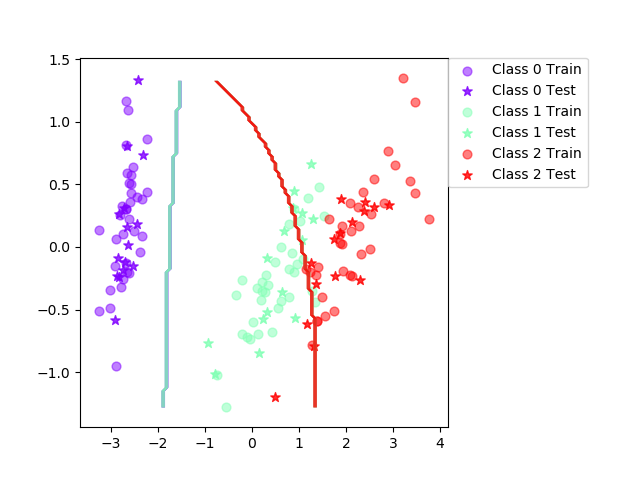
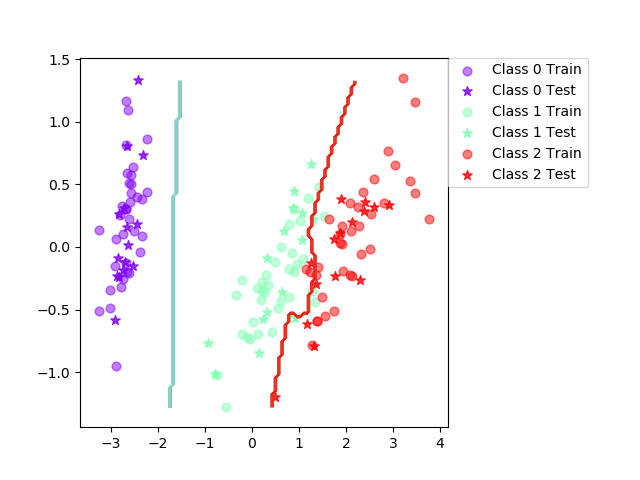
Fixed assignment 5

diff --git a/lab3/stef.py b/lab3/stef.py
@@ -1,21 +1,3 @@
-#!/usr/bin/python
-# coding: utf-8
-
-# # Lab 3: Bayes Classifier and Boosting
-
-# ## Jupyter notebooks
-# 
-# In this lab, you can use Jupyter <https://jupyter.org/> to get a nice layout of your code and plots in one document. However, you may also use Python as usual, without Jupyter.
-# 
-# If you have Python and pip, you can install Jupyter with `sudo pip install jupyter`. Otherwise you can follow the instruction on <http://jupyter.readthedocs.org/en/latest/install.html>.
-# 
-# And that is everything you need! Now use a terminal to go into the folder with the provided lab files. Then run `jupyter notebook` to start a session in that folder. Click `lab3.ipynb` in the browser window that appeared to start this very notebook. You should click on the cells in order and either press `ctrl+enter` or `run cell` in the toolbar above to evaluate all the expressions.
-
-# ## Import the libraries
-# 
-# In Jupyter, select the cell below and press `ctrl + enter` to import the needed libraries.
-# Check out `labfuns.py` if you are interested in the details.
-
 import numpy as np
 from scipy import misc
 from imp import reload
@@ -28,6 +10,7 @@ import random
 # The lab descriptions state what each function should do.
 
 
+# NOTE: you do not need to handle the W argument for this part!
 # in: labels - N vector of class labels
 # out: prior - C x 1 vector of class priors
 def computePrior(labels, W=None):
@@ -41,15 +24,13 @@ def computePrior(labels, W=None):
 
     prior = np.zeros((Nclasses,1))
 
-
-    for jdx,c in enumerate(classes):
-        idx = np.where(labels==c)[0]
-        prior[jdx] = np.sum(W[idx]) /  np.sum(W[:])
+    for jdx, c in enumerate(classes):
+        idx = np.where(labels == c)[0]
+        prior[jdx] = np.sum(W[idx]) / np.sum(W[:])
 
     return prior
 
-
-
+# NOTE: you do not need to handle the W argument for this part!
 # in:      X - N x d matrix of N data points
 #     labels - N vector of class labels
 # out:    mu - C x d matrix of class means (mu[i] - class i mean)
@@ -57,28 +38,27 @@ def computePrior(labels, W=None):
 def mlParams(X, labels, W=None):
     assert(X.shape[0]==labels.shape[0])
     Npts,Ndims = np.shape(X)
-    classes = np.unique(labels)
+    classes = np.unique(labels) # Returns the sorted unique elements of an array
     Nclasses = np.size(classes)
-    
+
     if W is None:
         W = np.ones((Npts,1))/float(Npts)
 
     mu = np.zeros((Nclasses,Ndims))
     sigma = np.zeros((Nclasses,Ndims,Ndims))
 
-    for jdx,c in enumerate(classes):
-        idx = labels==c # Extract the indicies for which y==class is TRUE
-        idx = np.where(labels==c)[0]
-        xlc = X[idx,:] * W[idx]# Get the x class for the class labels. Vectors are rows.
-        mu[jdx] = np.sum(xlc,axis=0)/ np.sum(W[idx])
-
-
-    for jdx,c in enumerate(classes):
-        idx = np.where(labels==c)[0]
-        xlc = X[idx,:]
-        diff = np.square(xlc - mu[jdx]) * W[idx]
-        mean = np.sum(diff,axis=0) / np.sum(W[idx])
-        sigma[jdx] = np.diag(mean)
+    for jdx, c in enumerate(classes):
+        idx = np.where(labels == c)[0] # Vector of length C of indices for a given label class c
+        xlc = X[idx,:] * W[idx] # Matrix  C x d with samples in the class c
+        mu[jdx] = np.sum(xlc, axis=0)/np.sum(W[idx]) # Compute mean
+        
+    for jdx, c in enumerate(classes):
+        idx = np.where(labels == c)[0] # Vector of length C of indices for a given label class c
+        xlc = X[idx, :] # Matrix  C x d with samples in the class c
+        diff = xlc - mu[jdx] # Matrix  C x d with diffs between x - µ
+        diff = np.square(diff) * W[idx]
+        mean = np.sum(diff, axis=0) / np.sum(W[idx])
+        sigma[jdx] = np.diag(mean) # Use diagonal matrix for Naive Bayes Classier
 
     return mu, sigma
 
@@ -92,19 +72,18 @@ def classifyBayes(X, prior, mu, sigma):
     Npts = X.shape[0]
     Nclasses,Ndims = np.shape(mu)
     logProb = np.zeros((Nclasses, Npts))
-    
-    for jdx in range(Nclasses):
-        diff = X - mu[jdx]
-        logSigma = np.log(np.linalg.det(sigma[jdx])) / 2
-        logPrior = np.log(prior[jdx])
-        for i in range(Npts):
-            logProb[jdx][i] = -logSigma - np.inner(diff[i]/np.diag(sigma[jdx]), diff[i]) / 2 + logPrior
 
+    for jdx in range(Nclasses):
+        diff = X - mu[jdx] # Matrix  C x d with diffs between x - µ
+        lnSigma = - np.log(np.linalg.det(sigma[jdx])) / 2 # N vector
+        lnPrior = np.log(prior[jdx]) # N vector
+        for i in range(Npts):
+            logProb[jdx][i] = lnSigma - np.inner(diff[i]/np.diag(sigma[jdx]), diff[i]) / 2 + lnPrior
+    
     # one possible way of finding max a-posteriori once
     # you have computed the log posterior
     h = np.argmax(logProb,axis=0)
     return h
-
 
 
 # The implemented functions can now be summarized into the `BayesClassifier` class, which we will use later to test the classifier, no need to add anything else here:
@@ -138,16 +117,11 @@ class BayesClassifier(object):
 
 # Call the `testClassifier` and `plotBoundary` functions for this part.
 
-
 # testClassifier(BayesClassifier(), dataset='iris', split=0.7)
-
-
 
 # testClassifier(BayesClassifier(), dataset='vowel', split=0.7)
 
-
-
-# plotBoundary(BayesClassifier(), dataset='iris',split=0.7)
+# plotBoundary(BayesClassifier(), dataset='vowel',split=0.7)
 
 
 # ## Boosting functions to implement
@@ -177,22 +151,24 @@ def trainBoost(base_classifier, X, labels, T=10):
 
         # do classification for each point
         vote = classifiers[-1].classify(X)
-        err = 0
-        for jdx in np.unique(labels):
-            idx = np.where(jdx == vote)[0]
-            err += np.sum(np.transpose(wCur[idx]) * (1-(labels[idx] == jdx)))
 
-        alpha = (np.log(1-err) - np.log(err)) / 2
-        alphas.append(alpha)
-        wPre = wCur
+        classes = np.unique(labels)
+
+        # Compute error by classes to simplify operations
+        eps = 0   
+        for jdx in classes:
+            idx = np.where(vote == jdx)[0]
+            eps += np.sum(np.transpose(wCur[idx]) *  (1 - (jdx == labels[idx])))
+
+        alpha = (np.log(1 - eps) - np.log(eps)) / 2 # Compute new alpha
+        alphas.append(alpha) # you will need to append the new alpha
+
+        # Update weights
+        wOld = wCur
         for i in range(Npts):
-            if vote[i] == labels[i]:
-                wCur[i] = wPre[i]  * np.exp(-1*alpha)
-            else:
-                wCur[i] = wPre[i]  * np.exp(alpha)
+            wCur[i] = wOld[i] * np.exp(alpha * (-1)**(vote[i]==labels[i]))
         wCur = wCur / np.sum(wCur)
-
-    # print("T wCur: " + str(np.sum(wCur)))
+        
     return classifiers, alphas
 
 # in:       X - N x d matrix of N data points
@@ -210,13 +186,14 @@ def classifyBoost(X, classifiers, alphas, Nclasses):
     else:
         votes = np.zeros((Npts,Nclasses))
 
-        for i,T in enumerate(classifiers):
-            classified = T.classify(X)
+        for i in range(Ncomps):
+            classified = classifiers[i].classify(X)
             for j in range(Npts):
                 votes[j][classified[j]] += alphas[i]
 
         # one way to compute yPred after accumulating the votes
         return np.argmax(votes,axis=1)
+
 
 # The implemented functions can now be summarized another classifer, the `BoostClassifier` class. This class enables boosting different types of classifiers by initializing it with the `base_classifier` argument. No need to add anything here.
 
@@ -244,38 +221,25 @@ class BoostClassifier(object):
 # Call the `testClassifier` and `plotBoundary` functions for this part.
 
 
-# testClassifier(BoostClassifier(BayesClassifier(), T=10), dataset='iris',split=0.7)
+#testClassifier(BoostClassifier(BayesClassifier(), T=10), dataset='iris',split=0.7)
 
+testClassifier(BoostClassifier(BayesClassifier(), T=10), dataset='vowel',split=0.7)
 
-# testClassifier(BoostClassifier(BayesClassifier(), T=10), dataset='vowel',split=0.7)
-
-
-
-# plotBoundary(BoostClassifier(BayesClassifier()), dataset='iris',split=0.7)
+plotBoundary(BoostClassifier(BayesClassifier()), dataset='vowel',split=0.7)
 
 
 # Now repeat the steps with a decision tree classifier.
 
 
-#testClassifier(DecisionTreeClassifier(), dataset='iris', split=0.7)
+# testClassifier(DecisionTreeClassifier(), dataset='iris', split=0.7)
 
+# testClassifier(BoostClassifier(DecisionTreeClassifier(), T=10), dataset='iris',split=0.7)
 
+# testClassifier(DecisionTreeClassifier(), dataset='vowel',split=0.7)
 
-#testClassifier(BoostClassifier(DecisionTreeClassifier(), T=10), dataset='iris',split=0.7)
-
-
-
-#testClassifier(DecisionTreeClassifier(), dataset='vowel',split=0.7)
-
-
-
-#testClassifier(BoostClassifier(DecisionTreeClassifier(), T=10), dataset='vowel',split=0.7)
-
-
+# testClassifier(BoostClassifier(DecisionTreeClassifier(), T=10), dataset='vowel',split=0.7)
 
 #plotBoundary(DecisionTreeClassifier(), dataset='iris',split=0.7)
-
-
 
 #plotBoundary(BoostClassifier(DecisionTreeClassifier(), T=10), dataset='iris',split=0.7)
 
@@ -284,30 +248,27 @@ class BoostClassifier(object):
 # 
 # Note that this part of the assignment is completely voluntary! First, let's check how a boosted decision tree classifier performs on the olivetti data. Note that we need to reduce the dimension a bit using PCA, as the original dimension of the image vectors is `64 x 64 = 4096` elements.
 
+# testClassifier(BayesClassifier(), dataset='olivetti',split=0.7, dim=20)
 
-#testClassifier(BayesClassifier(), dataset='olivetti',split=0.7, dim=20)
-
-
-
-#testClassifier(BoostClassifier(DecisionTreeClassifier(), T=10), dataset='olivetti',split=0.7, dim=20)
+# testClassifier(BoostClassifier(DecisionTreeClassifier(), T=10), dataset='olivetti',split=0.7, dim=20)
 
 
 # You should get an accuracy around 70%. If you wish, you can compare this with using pure decision trees or a boosted bayes classifier. Not too bad, now let's try and classify a face as belonging to one of 40 persons!
 
 
-#X,y,pcadim = fetchDataset('olivetti') # fetch the olivetti data
-#xTr,yTr,xTe,yTe,trIdx,teIdx = trteSplitEven(X,y,0.7) # split into training and testing
-#pca = decomposition.PCA(n_components=20) # use PCA to reduce the dimension to 20
-#pca.fit(xTr) # use training data to fit the transform
-#xTrpca = pca.transform(xTr) # apply on training data
-#xTepca = pca.transform(xTe) # apply on test data
-# use our pre-defined decision tree classifier together with the implemented
-# boosting to classify data points in the training data
-#classifier = BoostClassifier(DecisionTreeClassifier(), T=10).trainClassifier(xTrpca, yTr)
-#yPr = classifier.classify(xTepca)
-# choose a test point to visualize
-#testind = random.randint(0, xTe.shape[0]-1)
-# visualize the test point together with the training points used to train
-# the class that the test point was classified to belong to
-#visualizeOlivettiVectors(xTr[yTr == yPr[testind],:], xTe[testind,:])
+# X,y,pcadim = fetchDataset('olivetti') # fetch the olivetti data
+# xTr,yTr,xTe,yTe,trIdx,teIdx = trteSplitEven(X,y,0.7) # split into training and testing
+# pca = decomposition.PCA(n_components=20) # use PCA to reduce the dimension to 20
+# pca.fit(xTr) # use training data to fit the transform
+# xTrpca = pca.transform(xTr) # apply on training data
+# xTepca = pca.transform(xTe) # apply on test data
+# # use our pre-defined decision tree classifier together with the implemented
+# # boosting to classify data points in the training data
+# classifier = BayesClassifier().trainClassifier(xTrpca, yTr)
+# yPr = classifier.classify(xTepca)
+# # choose a test point to visualize
+# testind = random.randint(0, xTe.shape[0]-1)
+# # visualize the test point together with the training points used to train
+# # the class that the test point was classified to belong to
+# visualizeOlivettiVectors(xTr[yTr == yPr[testind],:], xTe[testind,:])
 

diff --git a/lab3/README.md b/lab3/README.md
@@ -44,5 +44,5 @@ Maybe a SVM as in last lab with polynomial kernel. Or adding more features that 
 
 | Mean value / (split=0.7) | Iris Basic | Iris Boost | Vowel Basic | Vowel Boost | 
 | ----- | ----- | ----- | ----- | ----- |
-| Accuracy  | 89.1| 89.1 | 32.8 | 7.14 |
-| SD | 4.57 | 1.17 | 2.74 | 1.17 |
+| Accuracy  | 89.0 | 94.1 | 64.7 | 80.2 |
+| SD | 4.16 | 6.72 | 4.03 | 3.52 |
